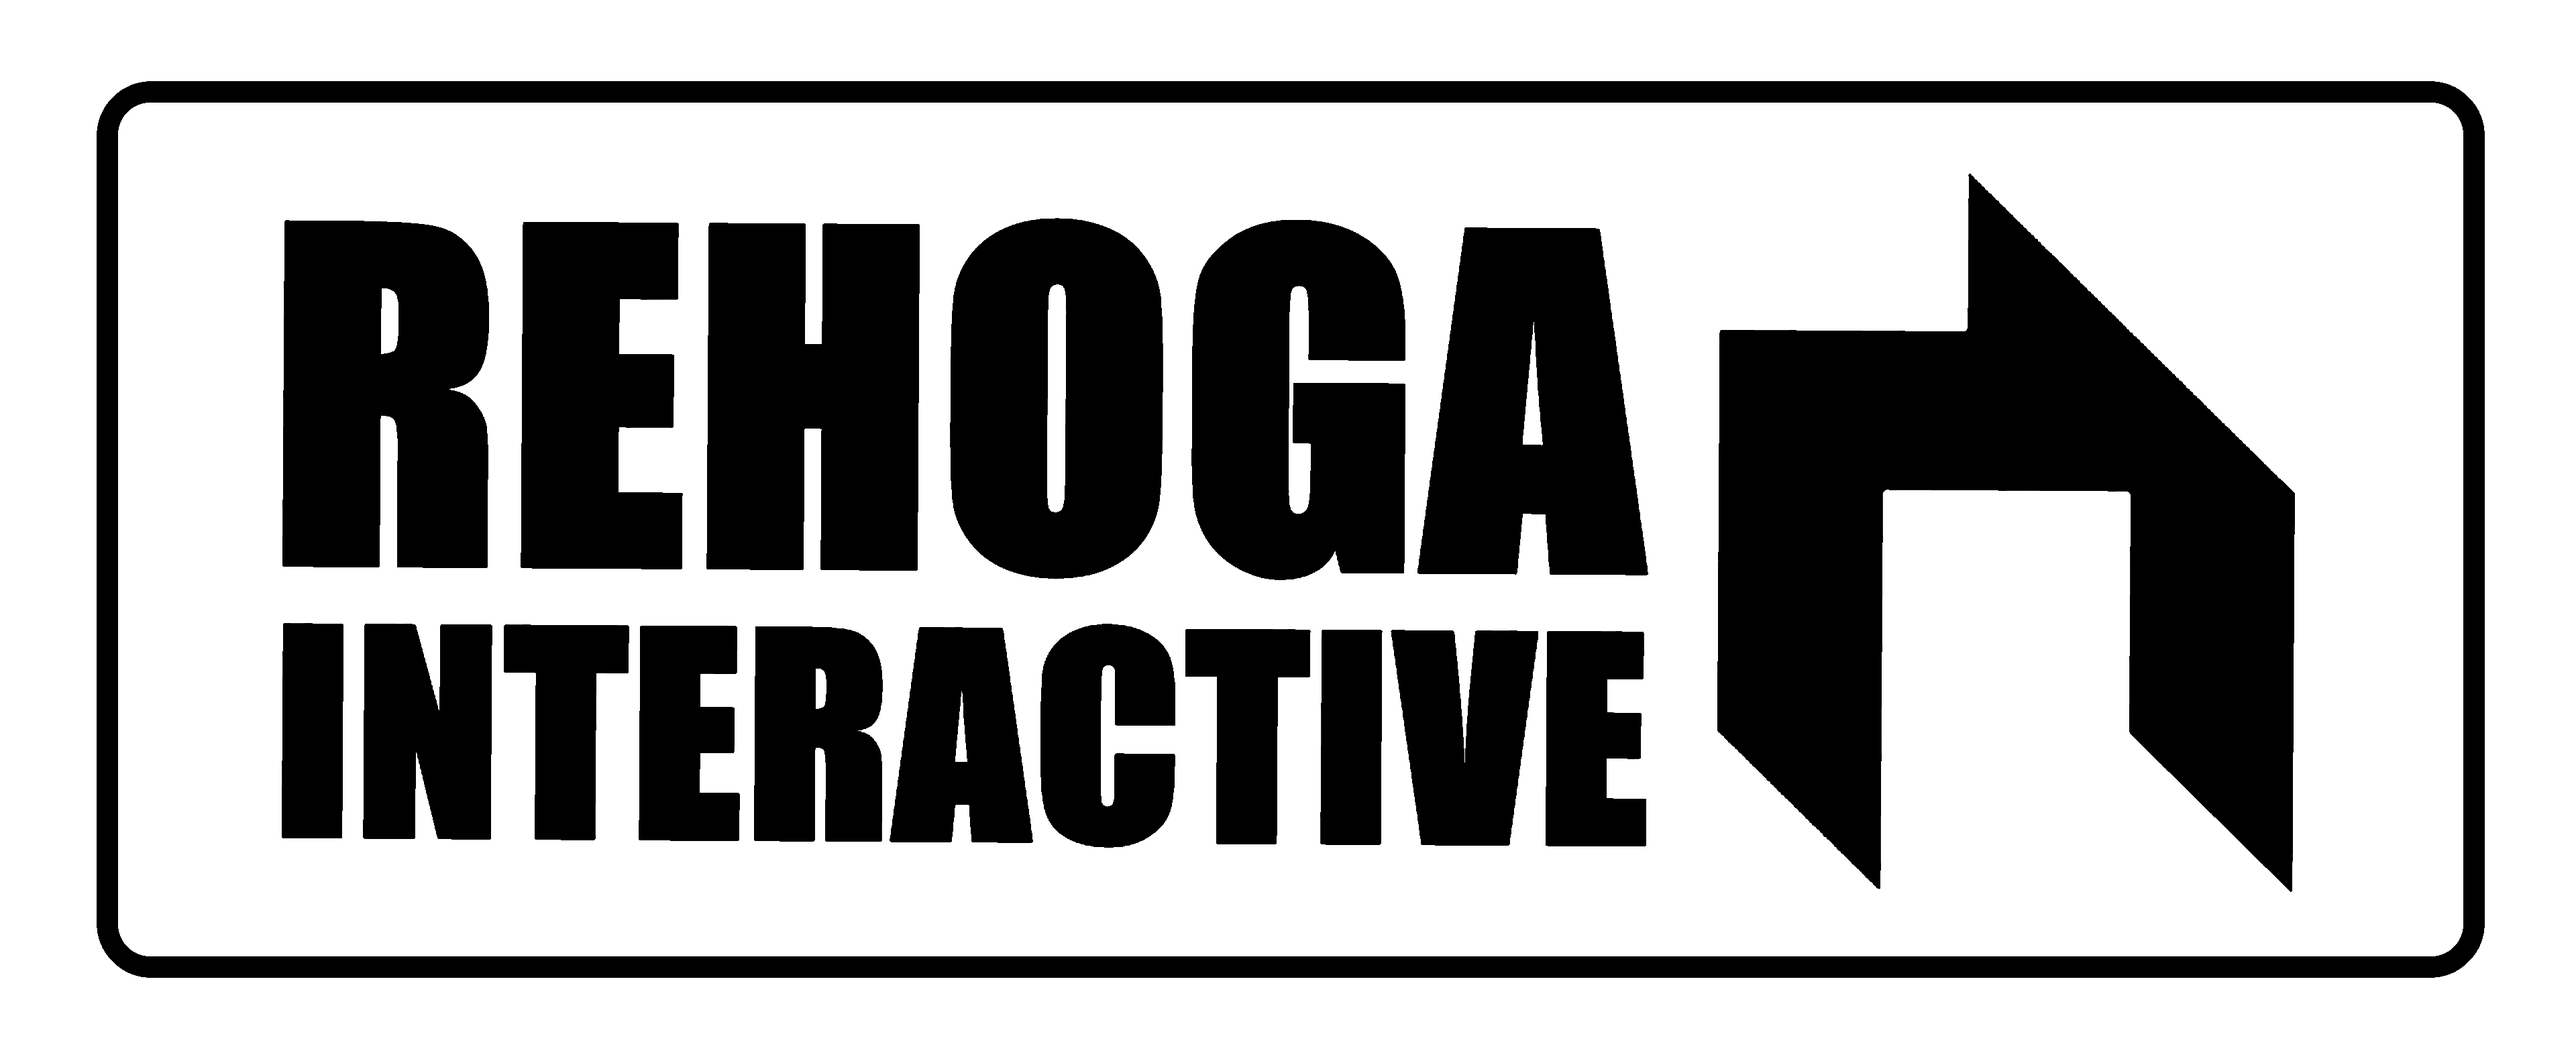
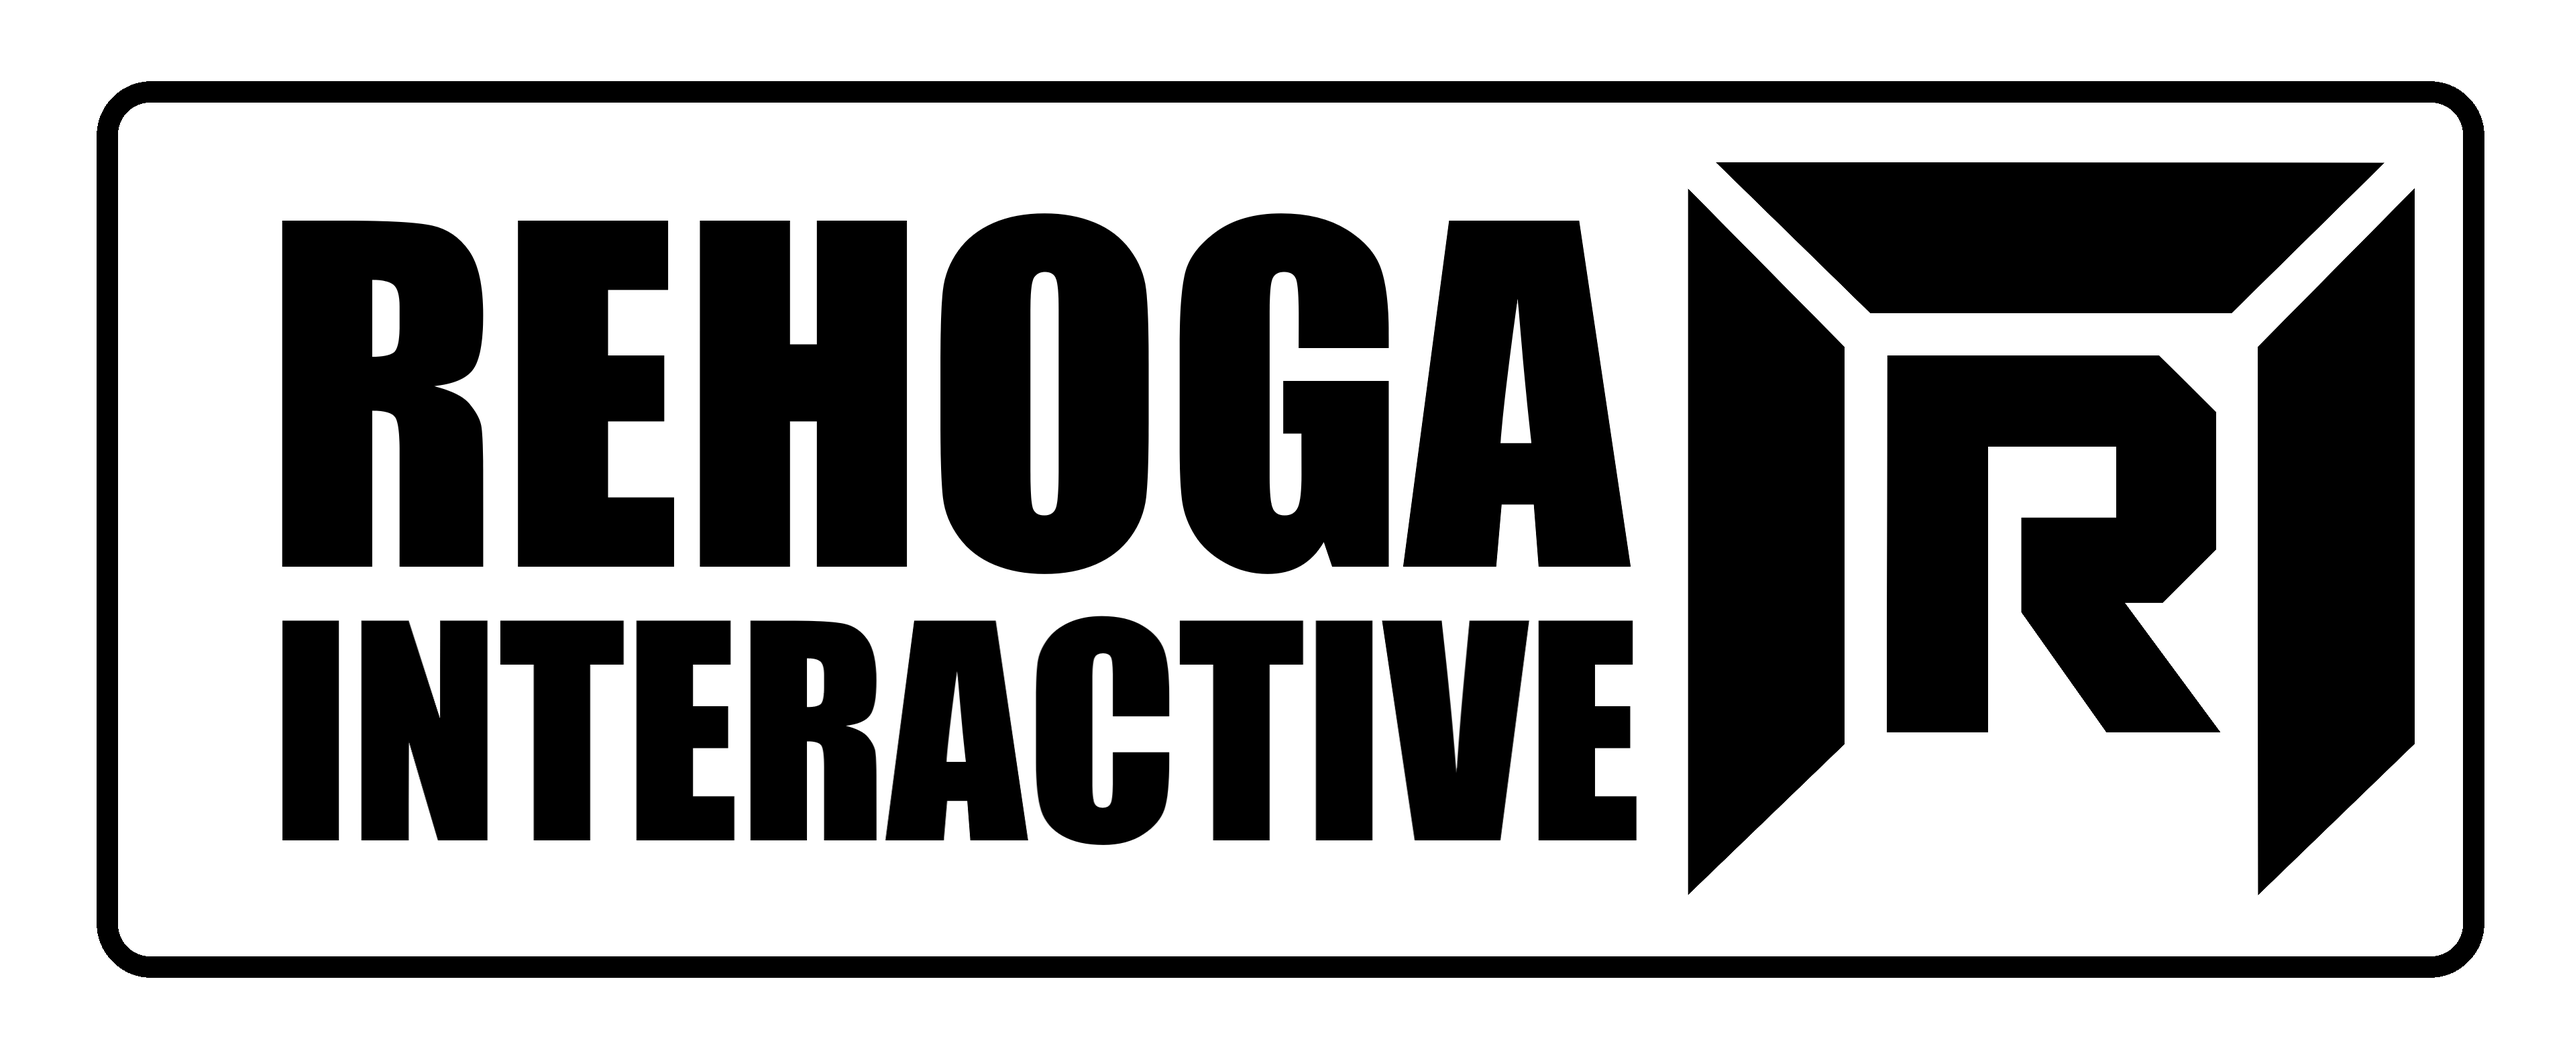
internal ptach

diff --git a/AutoBak2/Forms/AboutForm.Designer.cs b/AutoBak2/Forms/AboutForm.Designer.cs
@@ -31,6 +31,8 @@
             System.ComponentModel.ComponentResourceManager resources = new System.ComponentModel.ComponentResourceManager(typeof(AboutForm));
             label1 = new Label();
             label2 = new Label();
+            pictureBox1 = new PictureBox();
+            ((System.ComponentModel.ISupportInitialize)pictureBox1).BeginInit();
             SuspendLayout();
             // 
             // label1
@@ -40,7 +42,7 @@
             label1.Name = "label1";
             label1.Size = new Size(136, 20);
             label1.TabIndex = 0;
-            label1.Text = "Version Alpha_0.0.1";
+            label1.Text = "Version Alpha_0.0.3";
             // 
             // label2
             // 
@@ -51,17 +53,30 @@
             label2.TabIndex = 1;
             label2.Text = "© 2026 ReHoGa Interactive, AutoBak 2™";
             // 
+            // pictureBox1
+            // 
+            pictureBox1.Anchor = AnchorStyles.Top;
+            pictureBox1.Image = Properties.Resources.ReHoGaBanner3_0_Transparent;
+            pictureBox1.Location = new Point(276, 22);
+            pictureBox1.Name = "pictureBox1";
+            pictureBox1.Size = new Size(243, 111);
+            pictureBox1.SizeMode = PictureBoxSizeMode.Zoom;
+            pictureBox1.TabIndex = 2;
+            pictureBox1.TabStop = false;
+            // 
             // AboutForm
             // 
             AutoScaleDimensions = new SizeF(8F, 20F);
             AutoScaleMode = AutoScaleMode.Font;
             ClientSize = new Size(800, 450);
+            Controls.Add(pictureBox1);
             Controls.Add(label2);
             Controls.Add(label1);
             FormBorderStyle = FormBorderStyle.FixedSingle;
             Icon = (Icon)resources.GetObject("$this.Icon");
             Name = "AboutForm";
             Text = "About";
+            ((System.ComponentModel.ISupportInitialize)pictureBox1).EndInit();
             ResumeLayout(false);
             PerformLayout();
         }
@@ -70,5 +85,6 @@
 
         private Label label1;
         private Label label2;
+        private PictureBox pictureBox1;
     }
 }

diff --git a/AutoBak2/Properties/Resources.Designer.cs b/AutoBak2/Properties/Resources.Designer.cs
@@ -119,5 +119,15 @@ namespace AutoBak2.Properties {
                 return ((System.Drawing.Bitmap)(obj));
             }
         }
+        
+        /// <summary>
+        ///   Sucht eine lokalisierte Ressource vom Typ System.Drawing.Bitmap.
+        /// </summary>
+        internal static System.Drawing.Bitmap ReHoGaBanner3_0_Transparent {
+            get {
+                object obj = ResourceManager.GetObject("ReHoGaBanner3.0_Transparent", resourceCulture);
+                return ((System.Drawing.Bitmap)(obj));
+            }
+        }
     }
 }
